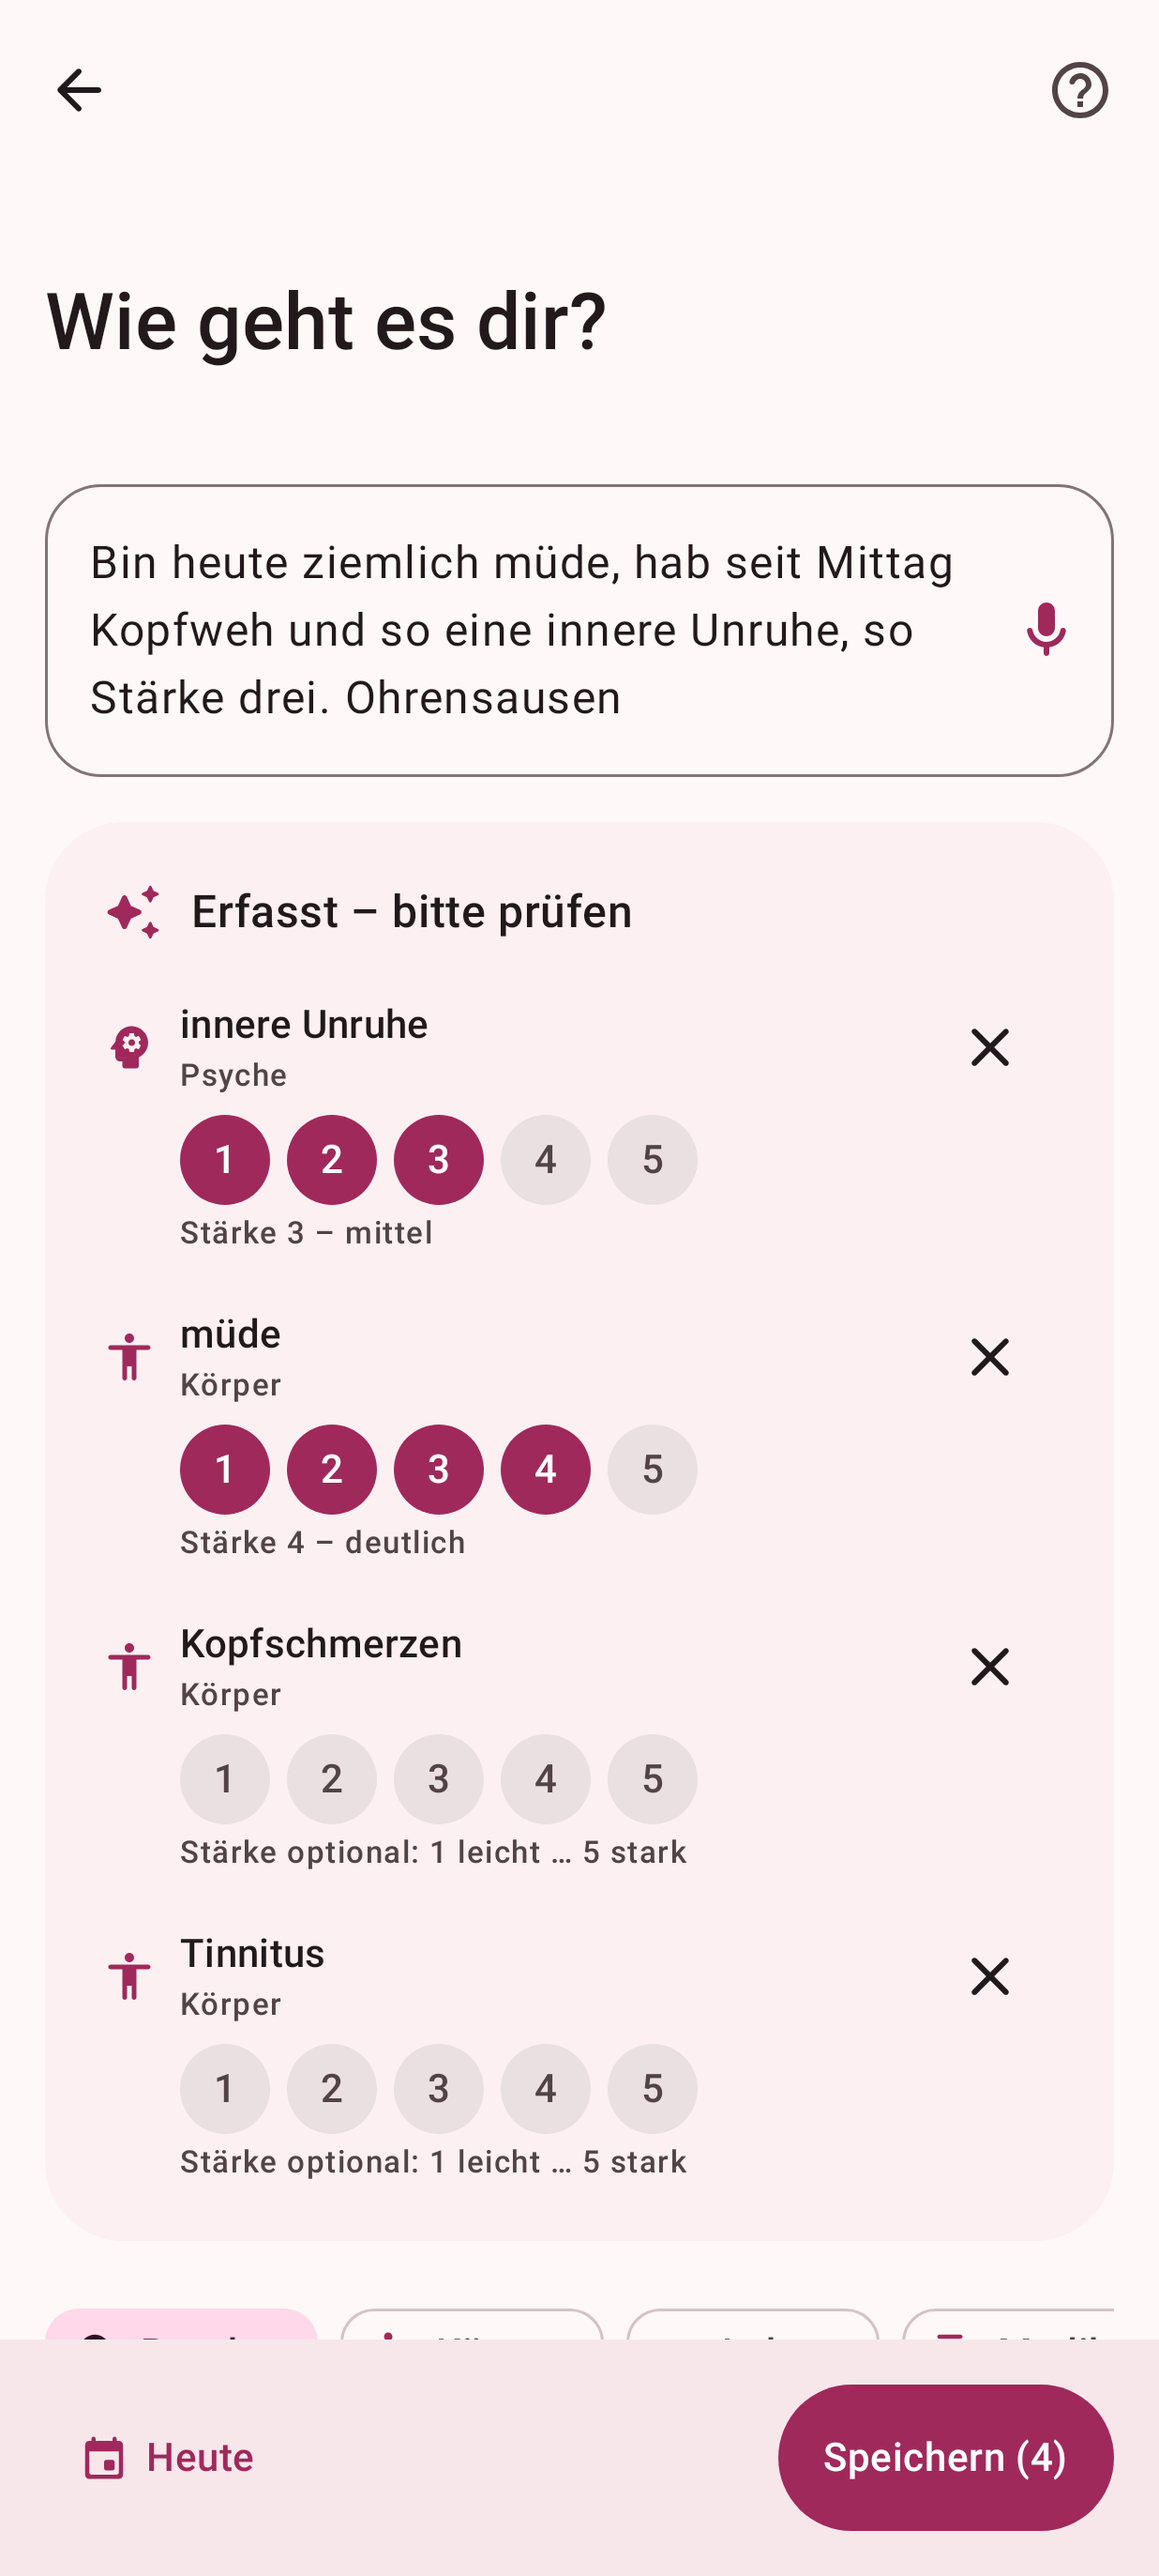
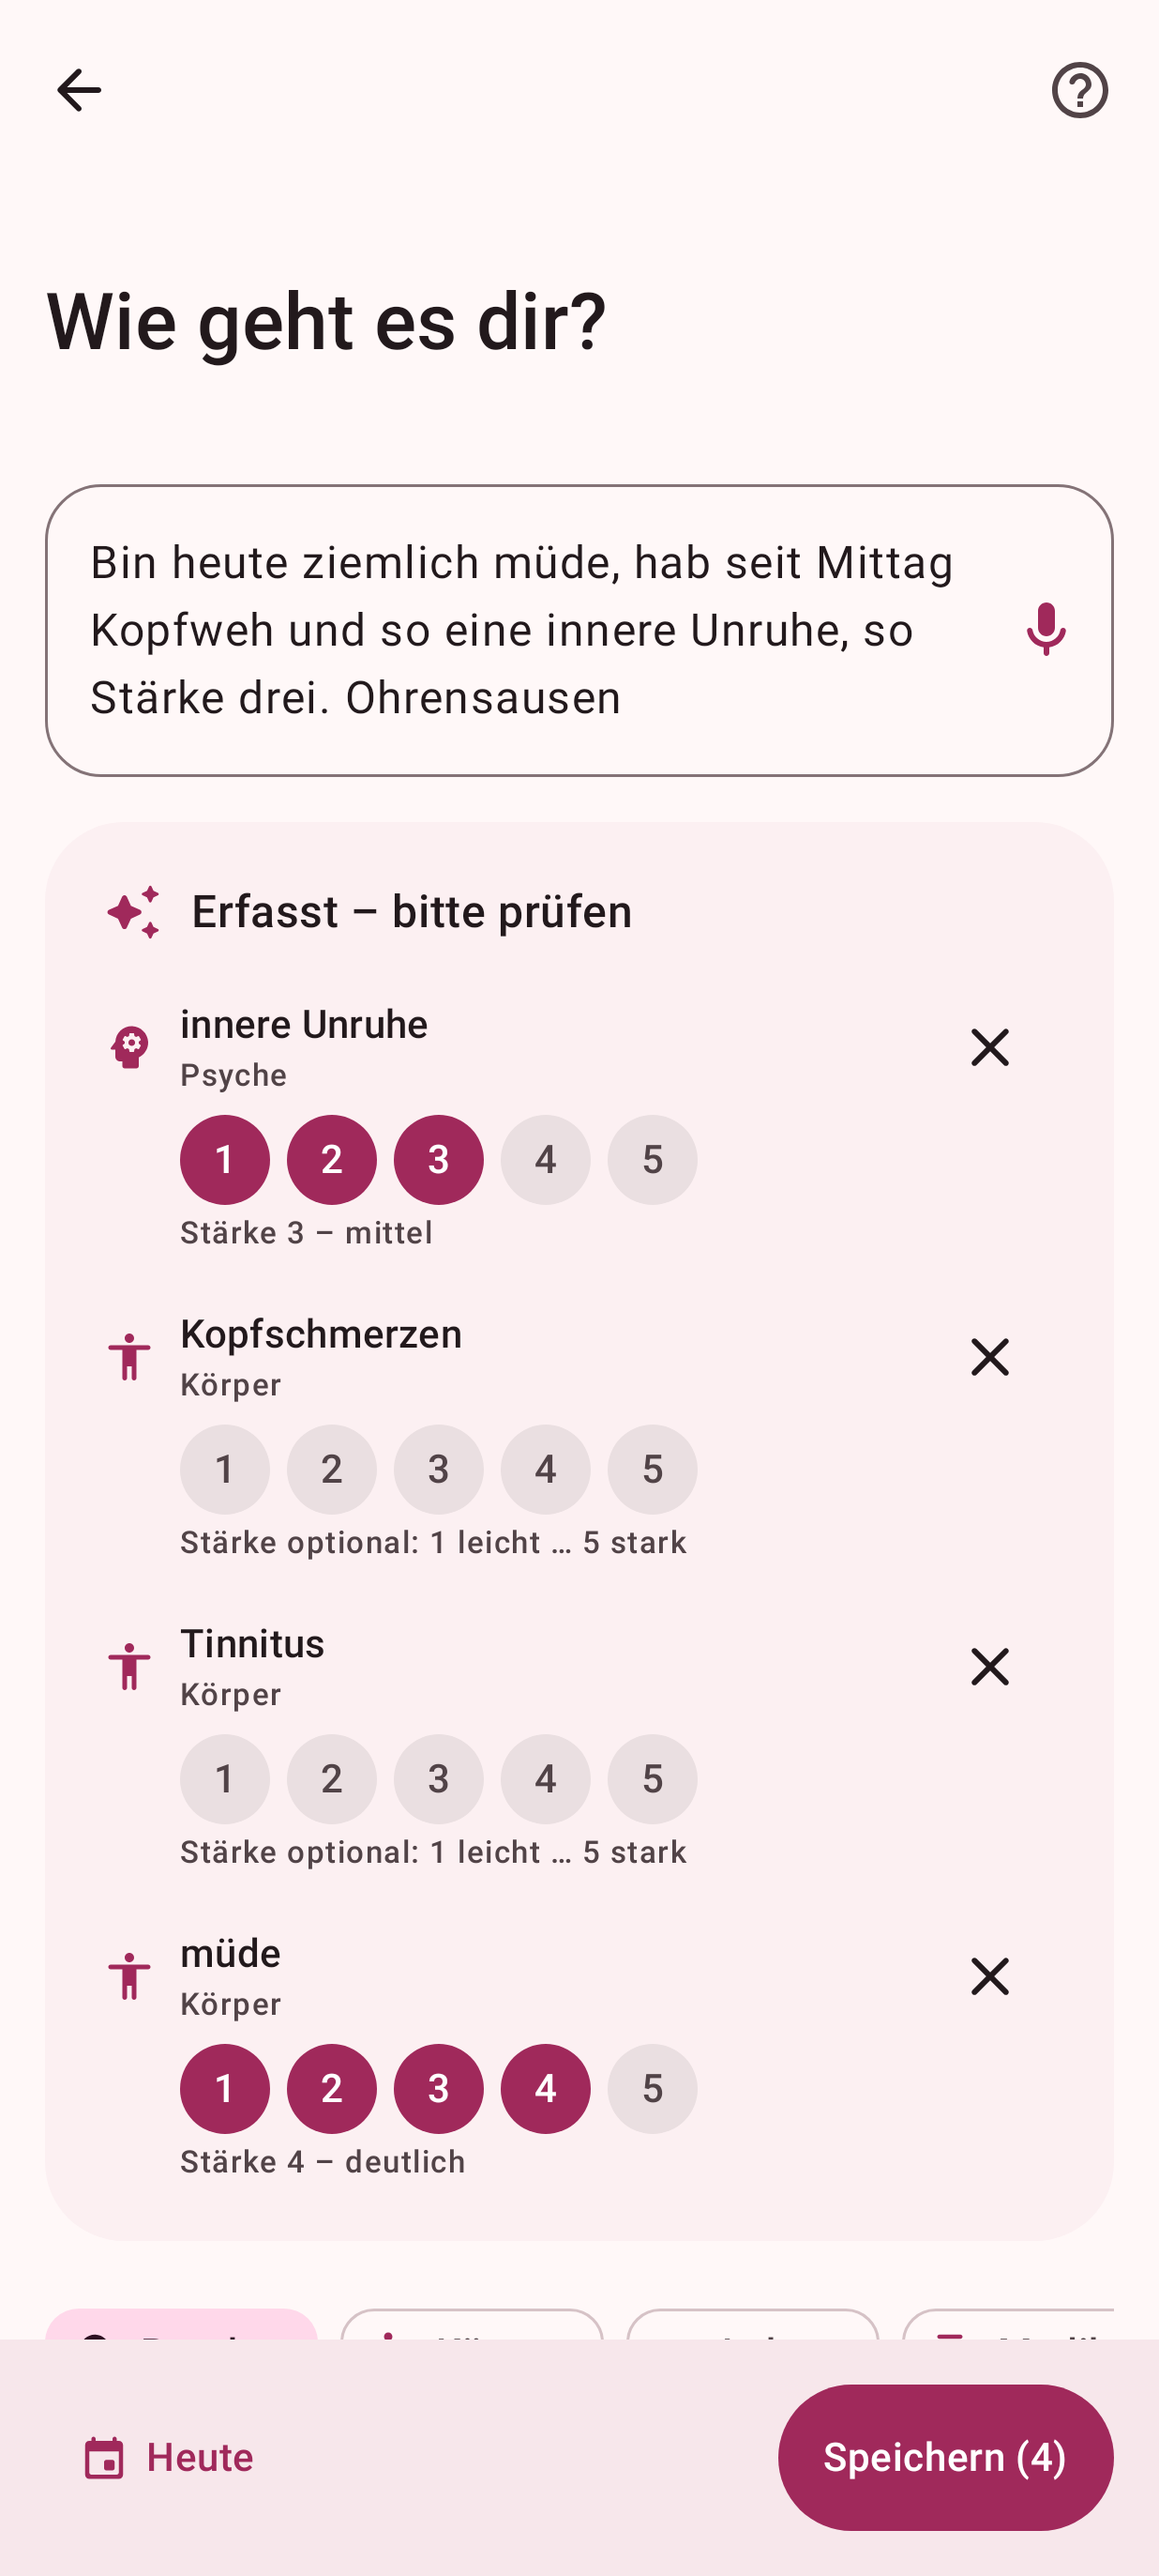
Fembiond 0.7.0: Release-Notes, Anleitung, Spezifikation; Lint-Hinweise
Claude-Session: https://claude.ai/code/session_016ur4THD3drYkvcUc6fCqDM

diff --git a/app/src/main/java/de/fembiond/app/ui/screens/GuideScreen.kt b/app/src/main/java/de/fembiond/app/ui/screens/GuideScreen.kt
@@ -113,11 +113,13 @@ object Guide {
 """.trimIndent()),
         GuideSection("entry", "Befinden eintragen – Text & Sprache", Icons.Rounded.Mic, """
 - Tippe auf **Wie geht es dir gerade?** und schreibe oder sprich frei, z. B. „ziemlich müde, Kopfweh, innere Unruhe Stärke 3“.
-- Die App erkennt Begriffe automatisch und ordnet sie Kategorien zu – auch Umgangssprache („Kopfweh“), Tippfehler und Verneinungen („keine Kopfschmerzen“).
+- Beschwerden gibt es nur in zwei Gruppen: **Psyche** und **Körper**. Ob etwas zur Periode, zu PMS oder zur Perimenopause gehört, musst du beim Eintragen nicht entscheiden – das ordnet die Auswertung unter **Einordnung** zu.
+- Die App erkennt Begriffe automatisch und ordnet sie zu – auch Umgangssprache („Kopfweh“), Tippfehler und Verneinungen („keine Kopfschmerzen“).
 - Wörter wie „leicht“, „ziemlich“, „extrem“ oder „Stärke drei“ setzen die **Intensität 1–5**. Du kannst sie unter „Erfasst – bitte prüfen“ anpassen.
 - Bei Ein-Tipp-Beschwerden (Plus-Menü, Karte Perimenopause) fragt die App nach dem Antippen direkt „Wie stark?“. „Ohne Stärke“ speichert sofort.
 - **Nicht erkannte Wörter** antippen, um sie als eigenen Begriff zu speichern oder einem vorhandenen zuzuordnen. Die App merkt sich das.
-- Unter den Kategorien findest du Vorschläge als Chips – häufig und zuletzt Genutztes steht vorne.
+- Unter Psyche, Körper, Leben und Medikation findest du Vorschläge als Chips – häufig und zuletzt Genutztes steht vorne. Schlafqualität und Energie stehen bei Körper.
+- Beim Anlegen eines **eigenen Begriffs** prüft die App, ob es ihn oder einen ähnlichen schon gibt (auch mit Tippfehlern oder anderer Wortform, z. B. „Schmerzen im Bein“ und „Beinschmerzen“), und zeigt, ob er in der Vorauswahl steht oder ausgeblendet ist. Mit „Verwenden“ nimmst du den vorhandenen.
 - Über das Datum unten links trägst du für vergangene Tage nach.
 """.trimIndent()),
         GuideSection("note", "Notizen & Lebensumstände", Icons.Rounded.EditNote, """
@@ -153,8 +155,9 @@ object Guide {
 - Tag antippen für Details, Löschen, Nachtragen und um Periodenbeginn oder -ende zu korrigieren.
 """.trimIndent()),
         GuideSection("analysis", "Auswertung verstehen", Icons.Rounded.Analytics, """
-- Die Auswertung ist in **Reiter** gegliedert: Überblick, Zyklus, Unruhe, PMS und Perimenopause. Reiter ohne Daten werden nicht angezeigt.
-- Oben wählst du **Zeitraum** (z. B. 6 Monate oder „unter Progesteron“) und **Bereiche** (Geist, Körper, Perimenopause, Schlaf, Leben, Medikation). Mit einem Bereich gefiltert, zeigt die Auswertung nur die passenden Karten – „Alle zeigen“ hebt den Filter auf.
+- Die Auswertung ist in **Reiter** gegliedert: Überblick, Einordnung, Zyklus, Unruhe, PMS und Perimenopause. Reiter ohne Daten werden nicht angezeigt.
+- **Einordnung**: Jede Beschwerde wird nach ihrem Muster im Zyklus zugeordnet – **übliche Periodenbeschwerden** (gehäuft während der Blutung, leicht bis mittel), **auffällig – ärztlich abklären** (z. B. starke Regelschmerzen in mehreren Zyklen, Blutung länger als 8 Tage, sehr starke Blutung, Zwischenblutungen, sehr kurze oder lange Zyklen; nach FIGO, ACOG, NICE), **PMS-Muster** (gehäuft in den 5 Tagen vor der Periode, danach seltener) und **spricht eher für Perimenopause** (ohne Phasenbezug, zunehmend oder in der Forschung typisch, z. B. Nachtschweiß; dazu Zyklusveränderungen nach STRAW+10). Der Balken zeigt, welcher Anteil der Tage auf Blutung, die 5 Tage davor und die übrigen Tage fällt.
+- Oben wählst du **Zeitraum** (z. B. 6 Monate oder „unter Progesteron“) und **Bereiche** (Psyche, Körper, Leben, Medikation). Mit einem Bereich gefiltert, zeigt die Auswertung nur die passenden Karten – „Alle zeigen“ hebt den Filter auf.
 - **Erkenntnisse** fassen auffällige Muster in Sätzen zusammen – mit Hinweis, wenn es noch zu wenige Daten gibt.
 - **Zykluslänge**: Balken pro Zyklus (Beere = Periode). Warnsymbol = deutliche Abweichung, Kapsel = unter Medikation.
 - **Wann tritt was auf?** (Heatmap): je dunkler, desto häufiger tritt ein Begriff an diesem Zyklustag auf. Feld antippen für Details.
@@ -168,8 +171,11 @@ object Guide {
 - Es erscheinen nur Auswertungen, zu denen es Einträge gibt. Je mehr du erfasst, desto mehr Bereiche kommen dazu.
 """.trimIndent()),
         GuideSection("terms", "Begriffe verwalten", Icons.AutoMirrored.Rounded.Label, """
-- Unter **Mehr → Begriffe verwalten** kannst du Begriffe umbenennen, einer anderen Kategorie zuordnen oder ausblenden.
-- Ausgeblendete Begriffe erscheinen nicht mehr als Vorschlag, bleiben aber in der Statistik erhalten.
+- Unter **Mehr → Begriffe verwalten** pflegst du alle Vorschlagslisten – Psyche, Körper, Leben, Medikation, Unruhe-Anzeichen, Auslöser, „Was geholfen hat“ und Ereignisarten.
+- Begriff antippen: **umbenennen**, **Kategorie ändern**, **zusammenführen** (alle Einträge wandern zum anderen Begriff, der alte Name wird weiter erkannt) oder **löschen** (nur wenn nie verwendet).
+- **Ausblenden** (Augen-Symbol): erscheint nicht mehr als Vorschlag, bleibt aber in der Statistik.
+- Filter **Nie genutzt**, **Selten** und **Ausgeblendet** helfen beim Aufräumen. Die Karte **Mögliche Doppelte** schlägt ähnliche Begriffe zum Zusammenführen vor.
+- Oben rechts **mehrere auswählen**, um sie gemeinsam auszublenden, zu löschen oder zusammenzuführen.
 """.trimIndent()),
         GuideSection("widget", "Widget einrichten", Icons.Rounded.Widgets, """
 - Startbildschirm lange gedrückt halten → **Widgets** → **Fembiond** → auf den Startbildschirm ziehen.

diff --git a/app/src/main/java/de/fembiond/app/Reminders.kt b/app/src/main/java/de/fembiond/app/Reminders.kt
@@ -54,7 +54,9 @@ object Reminders {
             .setAutoCancel(true)
         actions.forEach { b.addAction(0, it.label, it.intent) }
         val n = b.build()
-        runCatching { NotificationManagerCompat.from(context).notify(id, n) }
+        val allowed = androidx.core.content.ContextCompat.checkSelfPermission(context, android.Manifest.permission.POST_NOTIFICATIONS) ==
+            android.content.pm.PackageManager.PERMISSION_GRANTED
+        if (allowed) runCatching { NotificationManagerCompat.from(context).notify(id, n) }
     }
 }
 

diff --git a/app/src/main/java/de/fembiond/app/UnrestTileService.kt b/app/src/main/java/de/fembiond/app/UnrestTileService.kt
@@ -18,6 +18,7 @@ class UnrestTileService : TileService() {
         }
     }
 
+    @android.annotation.SuppressLint("StartActivityAndCollapseDeprecated") // nur unter Android 14 genutzt
     override fun onClick() {
         val intent = Intent(this, MainActivity::class.java)
             .putExtra(MainActivity.EXTRA_ROUTE, Routes.unrest())

diff --git a/app/src/main/assets/releases/v0.7.0.md b/app/src/main/assets/releases/v0.7.0.md
@@ -1,0 +1,26 @@
+## Eintragen ohne Vorab-Einordnung
+
+- **Nur noch zwei Gruppen für Beschwerden: Psyche und Körper.** Ob etwas zur Periode, zu PMS oder zur Perimenopause gehört, muss beim Eintragen niemand entscheiden – das übernimmt die Auswertung. Schlaf, Energie, Blutung und die bisherigen Perimenopause-Beschwerden stehen jetzt bei Körper.
+- Vorhandene Einträge und Begriffe werden beim Update automatisch übernommen; doppelte Begriffe werden dabei zusammengeführt. Auch ältere Sicherungen lassen sich wiederherstellen.
+- **Stärke 1–5 bei jeder Beschwerde:** Nach dem Antippen einer Beschwerde im Plus-Menü oder in der Karte „Perimenopause“ fragt die App direkt „Wie stark?“. „Ohne Stärke“ speichert sofort.
+
+## Neu in der Auswertung: Einordnung
+
+- Jede Beschwerde wird nach ihrem Muster im Zyklus zugeordnet:
+  - **Übliche Periodenbeschwerden** – gehäuft während der Blutung, leicht bis mittel.
+  - **Auffällig – ärztlich abklären** – z. B. starke Regelschmerzen (Stärke 4–5) in mehreren Zyklen, Unterleibsschmerzen auch außerhalb der Periode, Blutung länger als 8 Tage, sehr starke Blutung, Zwischenblutungen, Zyklen unter 21 oder über 35 Tage (nach FIGO, ACOG, NICE).
+  - **PMS-Muster** – gehäuft in den 5 Tagen vor der Periode und danach deutlich seltener (ACOG).
+  - **Spricht eher für Perimenopause** – ohne Bezug zu einer Zyklusphase, über die Zeit zunehmend oder in der Forschung typisch (z. B. Nachtschweiß), dazu Zyklusveränderungen nach STRAW+10 und das Alter.
+- Ein Balken zeigt pro Beschwerde, wie sich die Tage auf Blutung, die 5 Tage davor und die übrigen Tage verteilen. Dazu steht jeweils die Begründung.
+
+## Begriffe sauber halten
+
+- **Prüfung auf Doppelte:** Beim Anlegen eines eigenen Begriffs zeigt die App ähnliche vorhandene Begriffe – auch bei Tippfehlern, anderer Wortform oder Zusammensetzungen („Schmerzen im Bein“ / „Beinschmerzen“) – und ob sie in der Vorauswahl stehen oder ausgeblendet sind. „Verwenden“ nimmt den vorhandenen.
+- **Aufräumen unter Mehr → Begriffe verwalten**, für alle Vorschlagslisten: zusammenführen (der alte Name wird weiter erkannt), unbenutzte löschen, Filter „Nie genutzt“, „Selten“, „Ausgeblendet“, Vorschläge für mögliche Doppelte und Mehrfachauswahl.
+
+## Zyklus-Wissen
+
+- **Neu unter Mehr → Zyklus-Wissen:** Für jeden Zyklustag zeigt die App, was laut Fachliteratur typisch ist – Menstruation, stärkste Blutung und Krämpfe, Follikelphase, fruchtbares Fenster, Östrogen-Gipfel und LH-Anstieg, Eisprung, Mittelschmerz, Lutealphase, Progesteron-Höchstwert, prämenstruelle Tage, erwartete Periode – jeweils mit Erklärung und Quelle.
+- **Auf die eigene Zykluslänge umgerechnet:** „Eisprung an Tag 14“ gilt nur für 28-Tage-Zyklen. Konstant ist die Zeit nach dem Eisprung (etwa 12–14 Tage), deshalb rechnet die App vom erwarteten Periodenbeginn zurück.
+- **Laborzeitpunkte** (Hormonwerte an Tag 2–5, Progesteron etwa 7 Tage vor der Periode) und – bei Progesteron-Schema – Einnahmetage und mögliche Abbruchblutung.
+- **„Im Zyklus typisch“** auch im Zyklusring (Tag antippen), in der Tagesansicht und als Zeile „Heute typisch“ auf dem Startbildschirm.

diff --git a/docs/SPEZIFIKATION.md b/docs/SPEZIFIKATION.md
@@ -46,15 +46,24 @@ Perimenopause, innere Unruhe und Panikattacken. Zielgerät: Google Pixel 7. Spra
 - **Sortierung:** Kombination aus Häufigkeit und Aktualität (Häufigkeit mit zeitlichem Abklingen).
 
 ### 3.1 Kategorien mit Startbegriffen
+Beschwerden werden nur nach **Psyche** und **Körper** unterschieden. Ob eine Beschwerde zur Periode, zu PMS oder zur Perimenopause passt, ermittelt erst die Auswertung (Abschnitt „Einordnung“) aus dem zeitlichen Muster – die eintragende Person muss das nicht einschätzen.
+
 | Kategorie | Startbegriffe |
 |---|---|
-| Stimmung / Geist | gereizt, traurig, ängstlich, angespannt, innere Unruhe, überfordert, Stimmungsschwankungen, ausgeglichen, fröhlich, konzentrationsschwach, vergesslich |
-| Körper | Krämpfe, Kopfschmerzen, Migräne, Brustspannen, Blähungen, Rückenschmerzen, Gelenkschmerzen, Herzklopfen, Übelkeit, Hautunreinheiten |
-| Perimenopause | Hitzewallung, Nachtschweiß, Herzrasen, Scheidentrockenheit |
-| Schlaf & Energie | müde, erschöpft, energiegeladen, Einschlafprobleme, Durchschlafprobleme, schlecht geschlafen, gut geschlafen |
-| Blutung | siehe 2.1 |
+| Psyche | gereizt, traurig, ängstlich, angespannt, innere Unruhe, überfordert, Stimmungsschwankungen, ausgeglichen, fröhlich, konzentrationsschwach, vergesslich, Wortfindungsstörungen, Wutausbrüche … |
+| Körper | Krämpfe, Kopfschmerzen, Migräne, Brustspannen, Blähungen, Rückenschmerzen, Gelenkschmerzen, Herzklopfen, Übelkeit, Hautunreinheiten, Hitzewallung, Nachtschweiß, Herzrasen, Scheidentrockenheit, müde, erschöpft, Einschlafprobleme, Durchschlafprobleme, Blutung (siehe 2.1) … |
 | Lebensumstände | Arbeit, Beziehung & Familie, Soziales, Reisen, Krankheit/Infekt, Sport, Alkohol, Koffein, Termine (mit Bewertung belastend/neutral/positiv) |
 | Medikation / Nebenwirkungen | Schläfrigkeit, Schwindel, Stimmungsveränderung |
+
+Jede Beschwerde kann optional eine Stärke 1–5 erhalten. Beim Anlegen eigener Begriffe prüft die App auf ähnliche vorhandene Begriffe (Tippfehler, Wortform, Zusammensetzungen, Synonyme). Unter „Begriffe verwalten“ lassen sich alle Vorschlagslisten bereinigen: umbenennen, Kategorie ändern, ausblenden, zusammenführen, unbenutzte löschen.
+
+### 3.2 Einordnung in der Auswertung
+| Gruppe | Kriterium |
+|---|---|
+| Übliche Periodenbeschwerden | ≥ 50 % der Tage während der Blutung (mind. doppelt so häufig wie erwartet), Stärke meist ≤ 3 |
+| Auffällig – ärztlich abklären | Regelschmerzen Stärke 4–5 in ≥ 2 Zyklen; Unterleibsschmerzen an ≥ 3 Tagen außerhalb der Periode; Blutung > 8 Tage; sehr starke Blutung in ≥ 2 Zyklen; Zwischenblutungen; ≥ 2 Zyklen < 21 oder > 35 Tage (FIGO 2018, ACOG, NICE NG88) |
+| PMS-Muster | gehäuft in den 5 Tagen vor der Periode, an Tag 4–10 höchstens halb so oft, in ≥ 2 Zyklen (ACOG) |
+| Spricht eher für Perimenopause | ohne Häufung in einer Zyklusphase, zunehmend im Zeitraum oder in der Forschung typisch (z. B. Hitzewallung, Nachtschweiß); dazu STRAW+10-Stadium, Zyklusschwankung und Alter |
 
 Grundlagen: DRSP (Daily Record of Severity of Problems), Menopause Rating Scale (MRS), STRAW+10.
 

diff --git a/README.md b/README.md
@@ -15,7 +15,7 @@ Die vollständige Spezifikation steht in [`docs/SPEZIFIKATION.md`](docs/SPEZIFIK
   Einordnung Perimenopause nach STRAW+10. Die Phase kann auch manuell gesetzt werden (Tipp auf die Phase).
 - **Schnelle Eingabe:** Freitext oder Sprache. Begriffe werden automatisch erkannt und kategorisiert, inklusive
   Intensität 1–5, Verneinungen und Tippfehlern. Unbekannte Wörter lassen sich zuordnen, die App lernt mit.
-- **Kategorien:** Stimmung & Geist, Körper, Perimenopause, Schlaf & Energie, Blutung, Lebensumstände, Medikation.
+- **Kategorien:** Beschwerden nur nach Psyche und Körper; Lebensumstände, Medikation. Die Einordnung in Periode, PMS oder Perimenopause erfolgt erst in der Auswertung.
 - **Unruhe in Stufen:** 1 leicht bis 5 Panikattacke, mit Anzeichen, Auslösern, Hilfen und Bezug zu Ereignissen.
 - **Ereignisse:** Feiern, Essen gehen, Konzerte planen, mit Zyklusphase am Ereignistag und Auswertung der Unruhe davor.
 - **Notizen:** Freitext wird interpretiert, äußere Umstände landen in „Lebensumstände“ (belastend/neutral/positiv).
